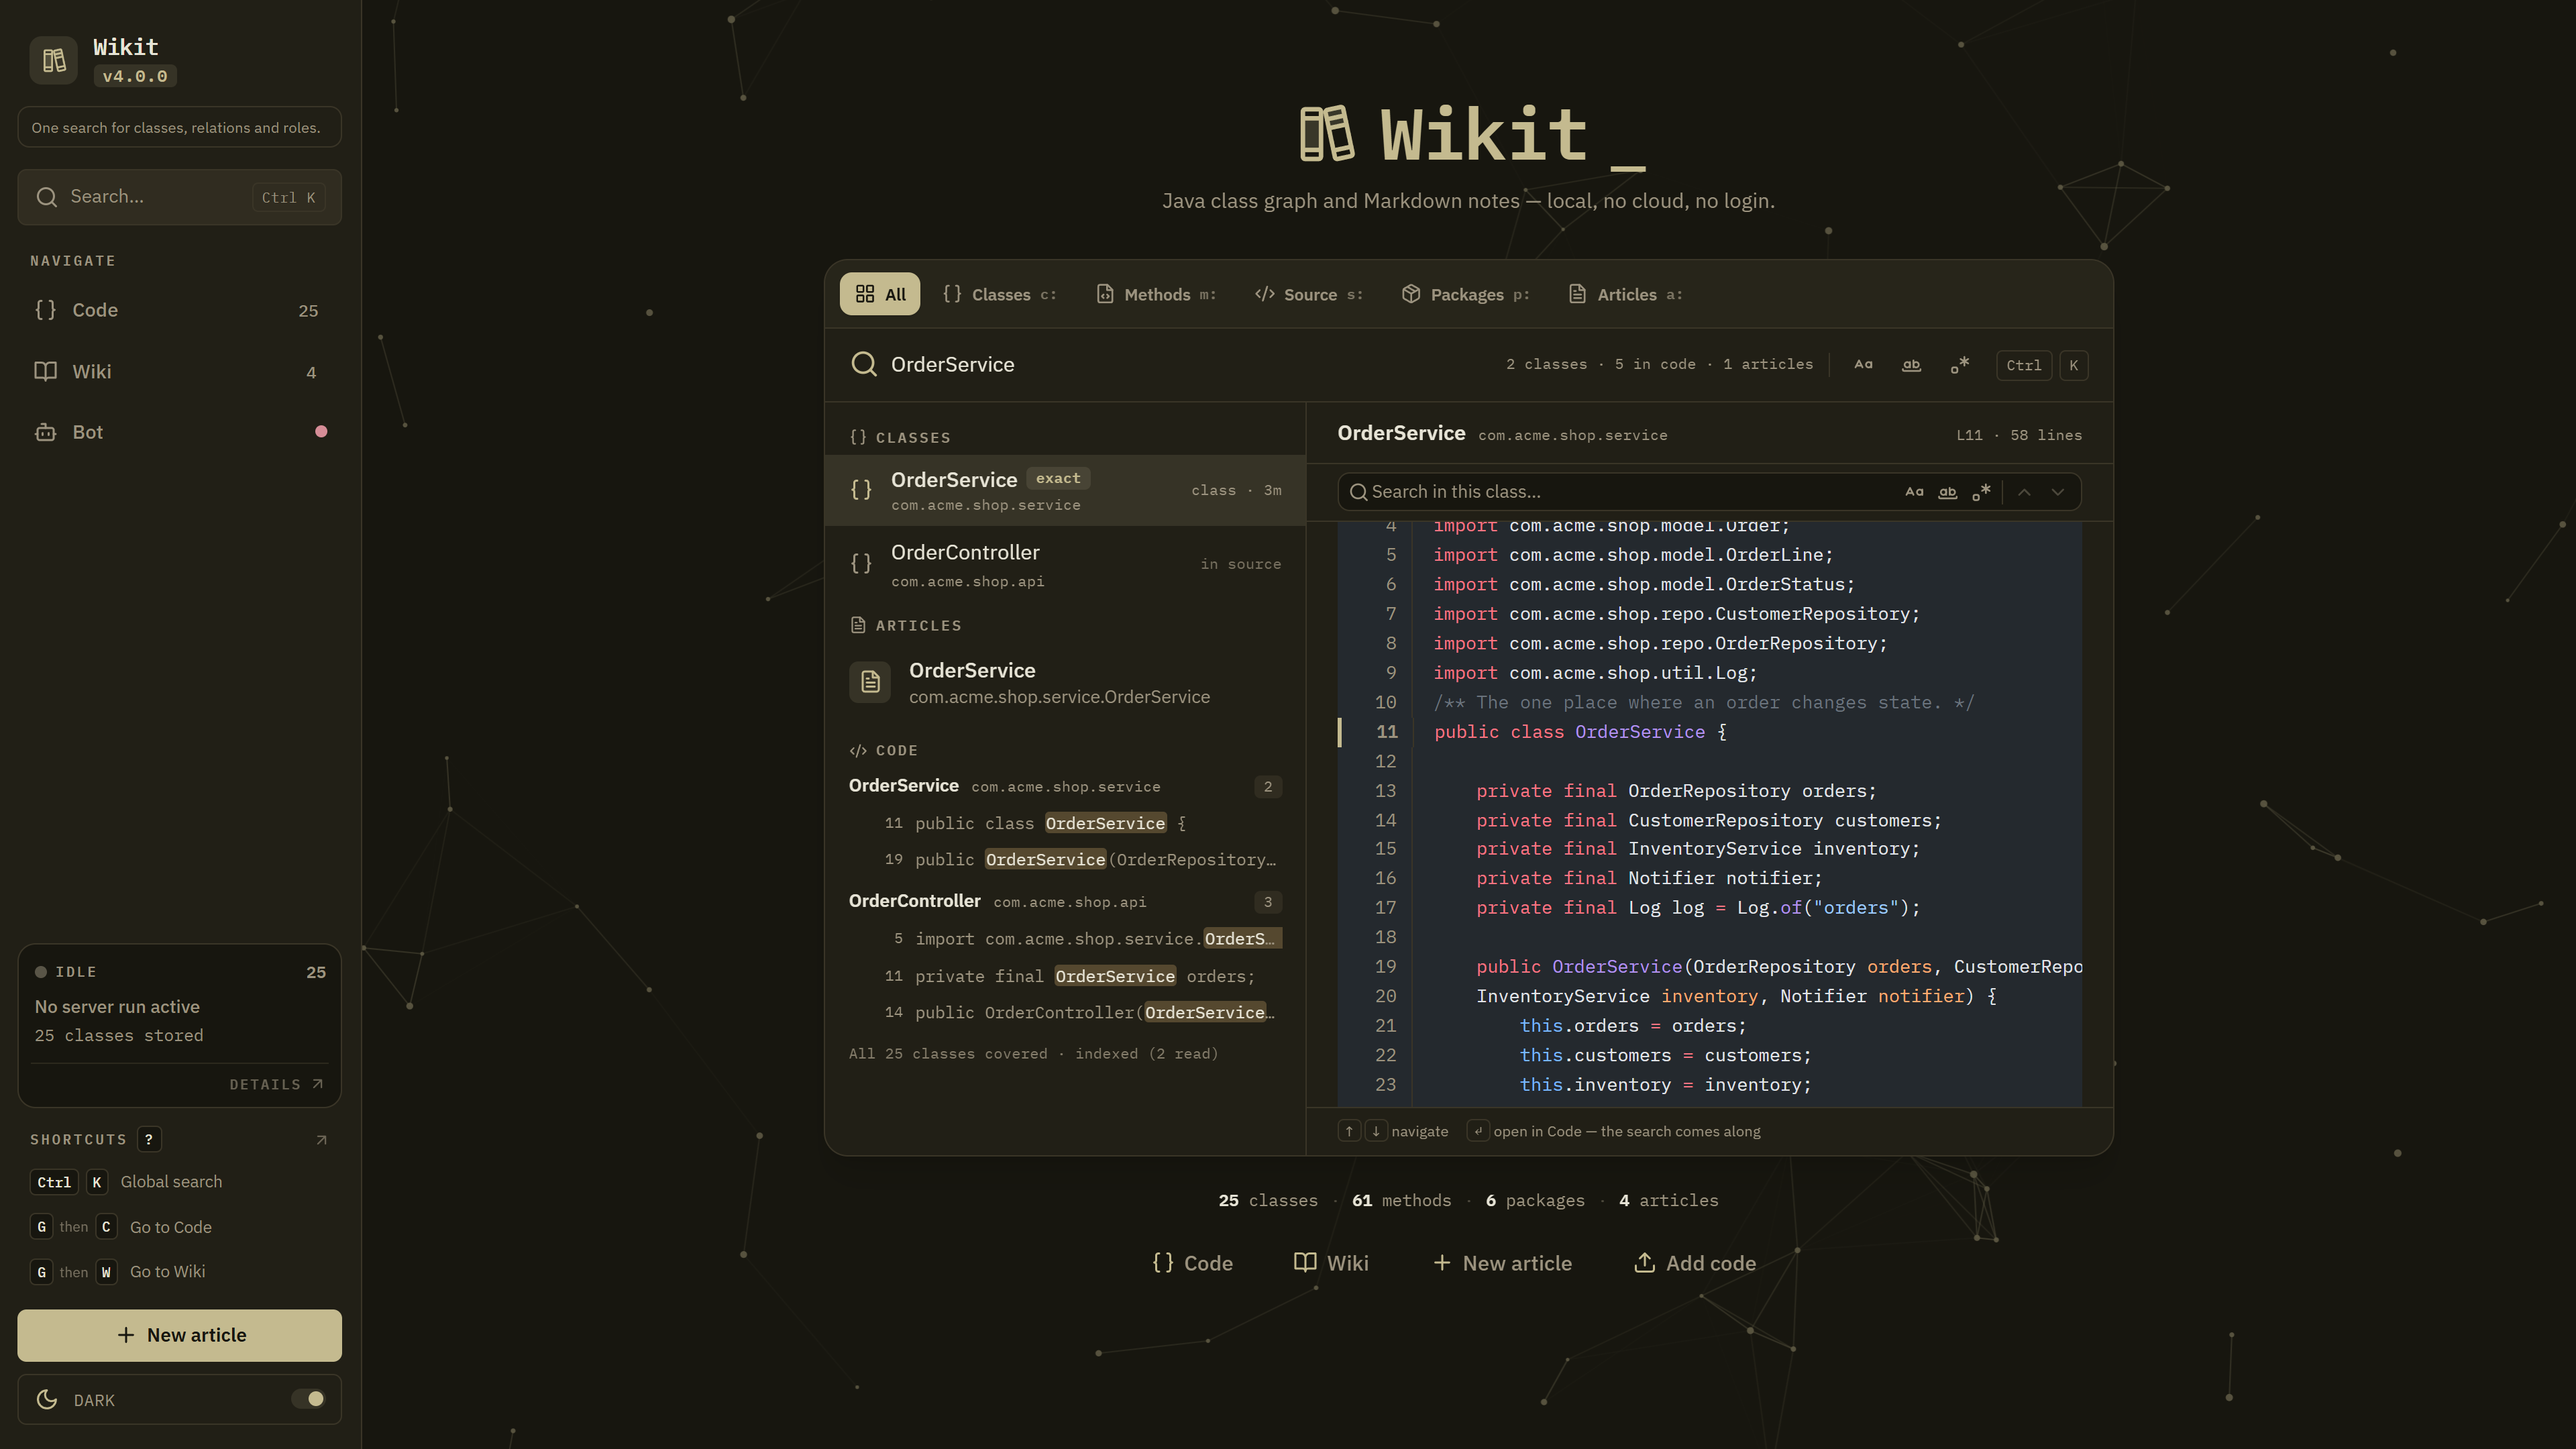
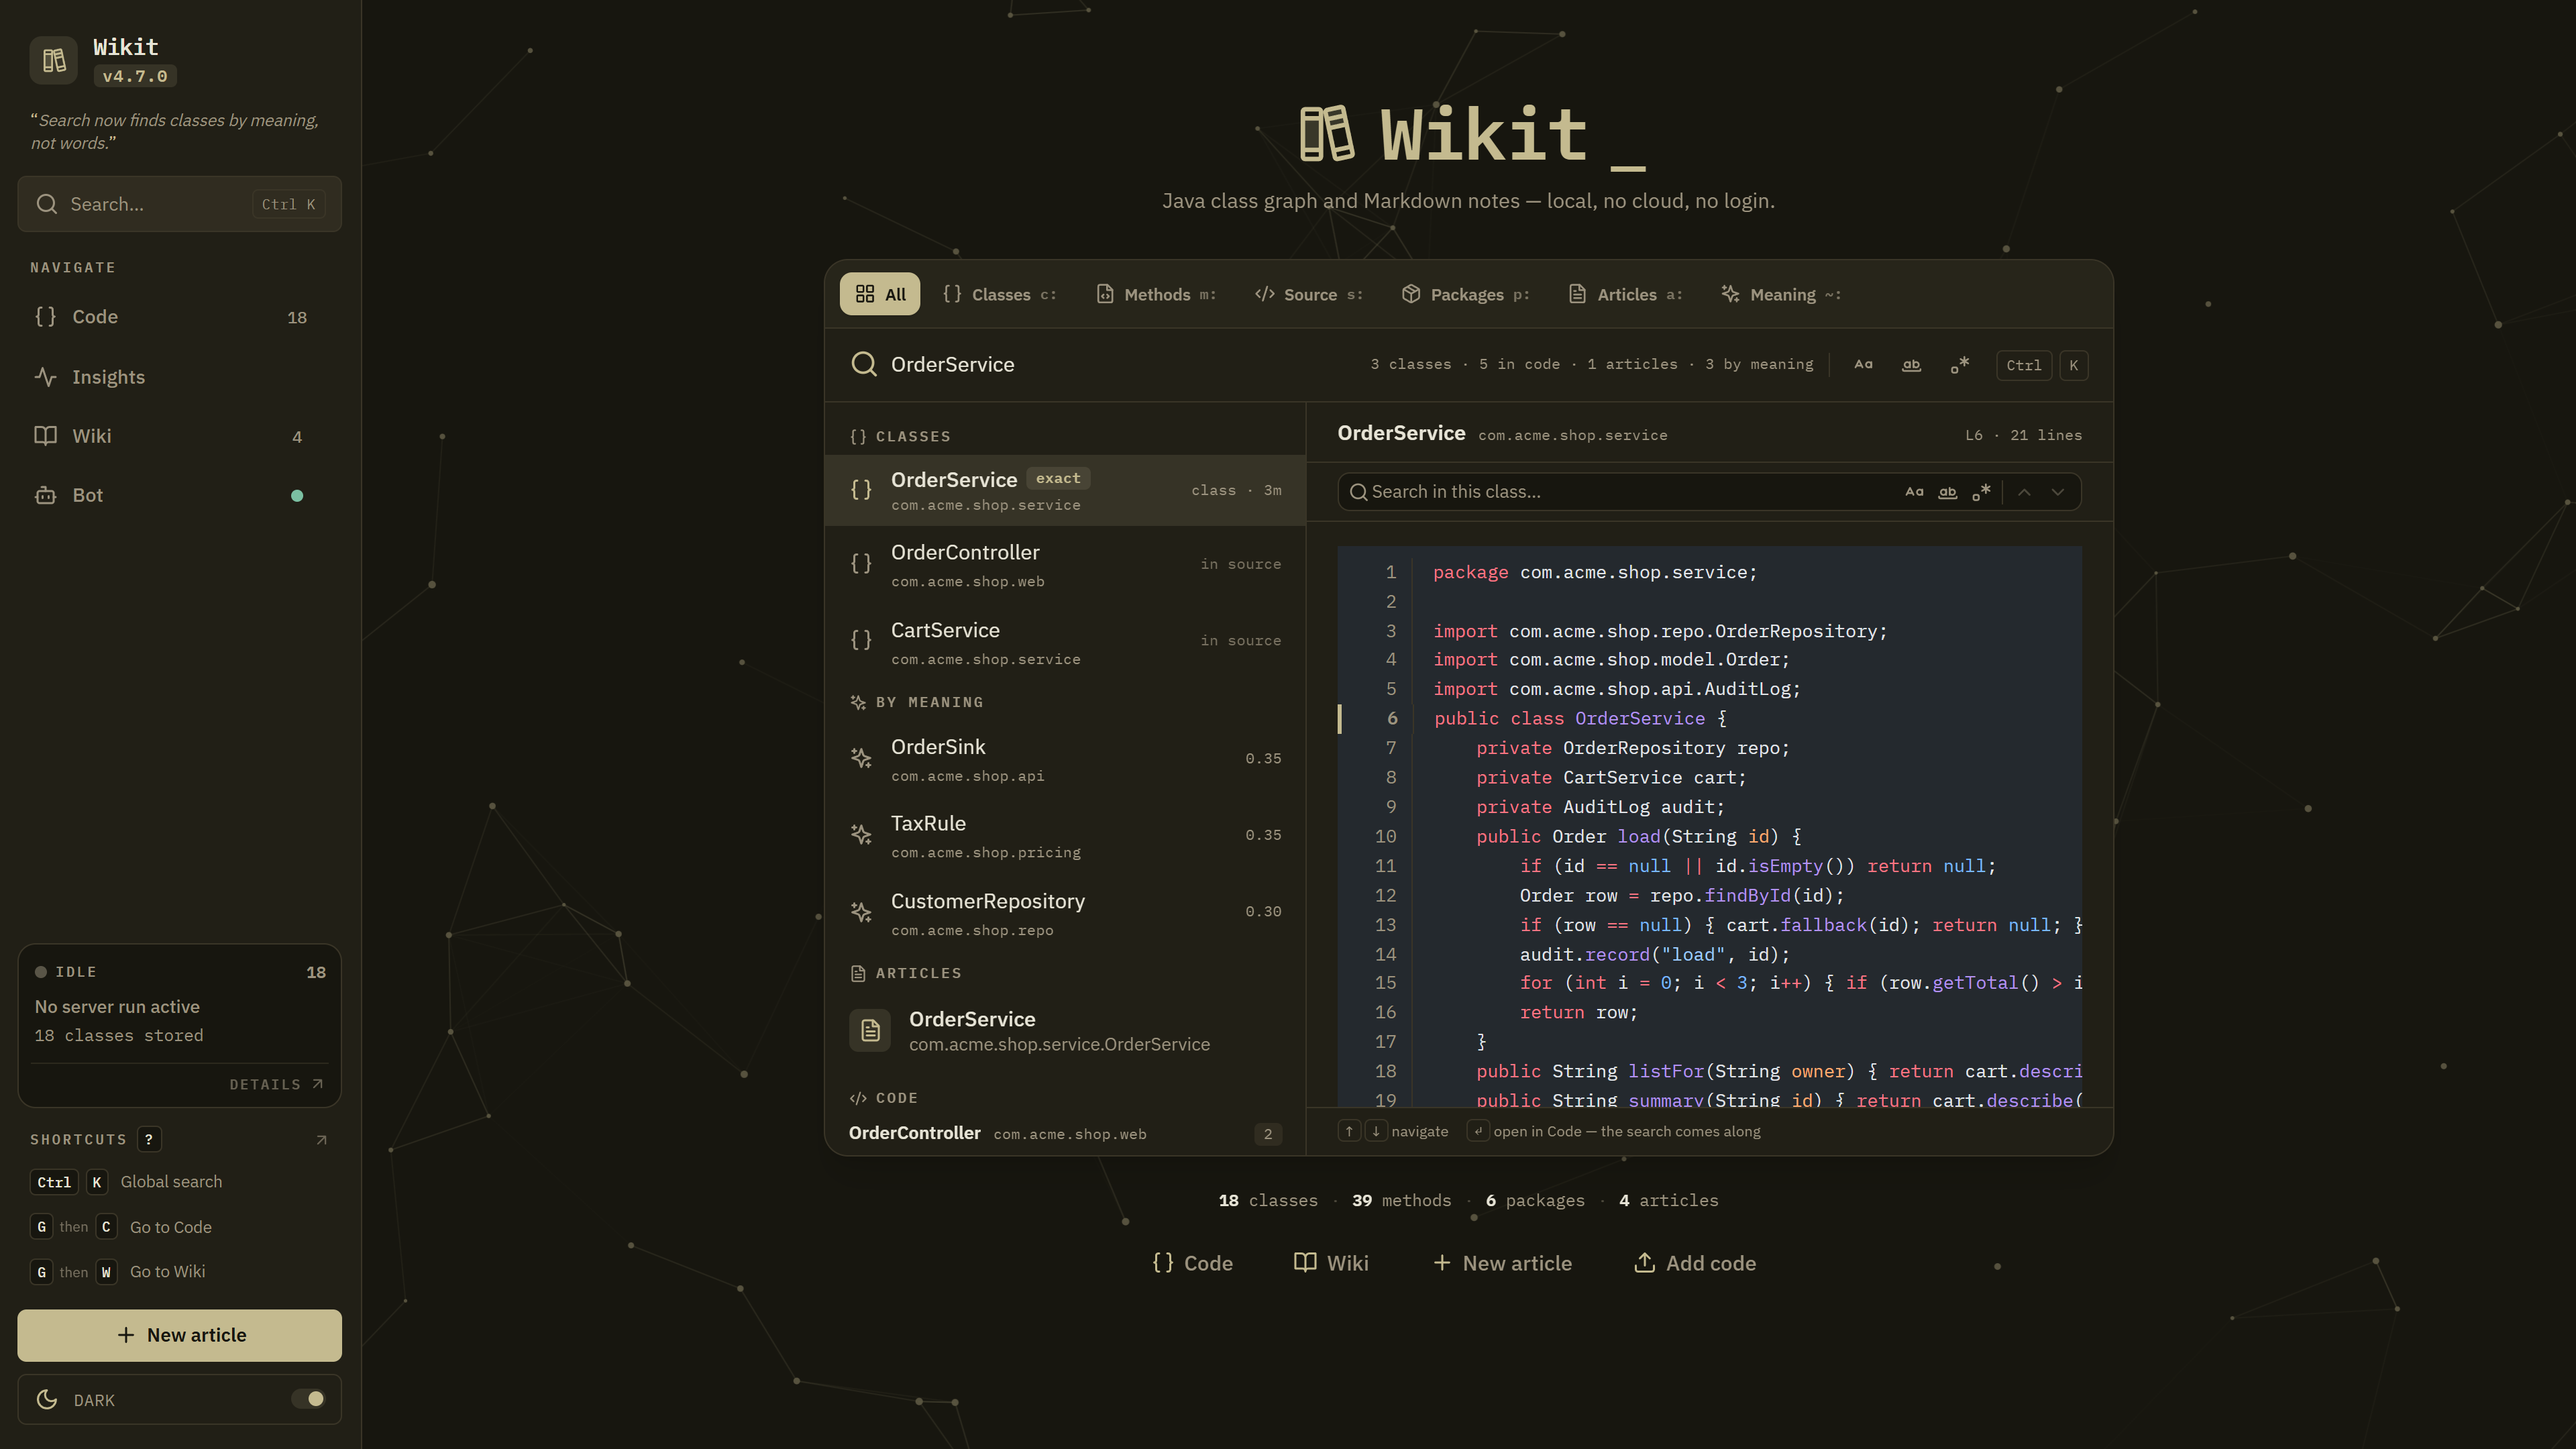
upd: readme screenshots for insights and meaning

diff --git a/README.md b/README.md
@@ -8,7 +8,7 @@ A tiny, self-hosted personal wiki — light enough for a Raspberry Pi.
 [![License: MIT](https://img.shields.io/badge/License-MIT-blue.svg)](LICENSE)
 [![Deploy to Raspberry Pi](https://github.com/leuteritz/wikit/actions/workflows/deploy.yml/badge.svg)](https://github.com/leuteritz/wikit/actions/workflows/deploy.yml)
 
-![Wikit — start page: one search box over articles, classes, methods and raw source, with a live preview](docs/landing.png)
+![Wikit — start page: one search box over articles, classes, raw source and meaning, with a live preview](docs/landing.png)
 
 ![Wikit — package tree, Java class dependency graph and class detail side by side](docs/screenshot.png)
 
